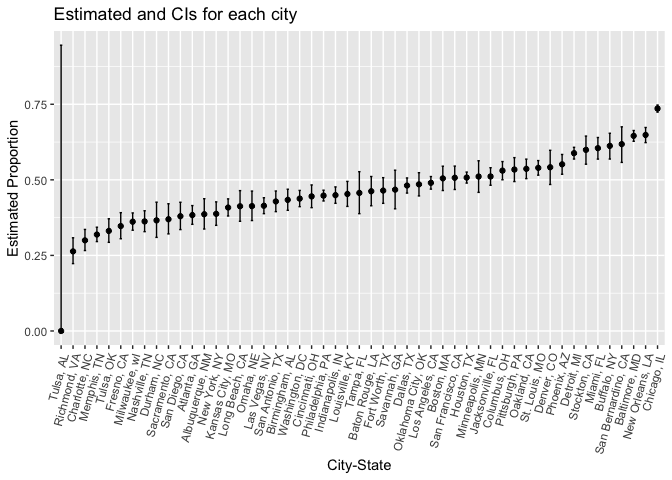
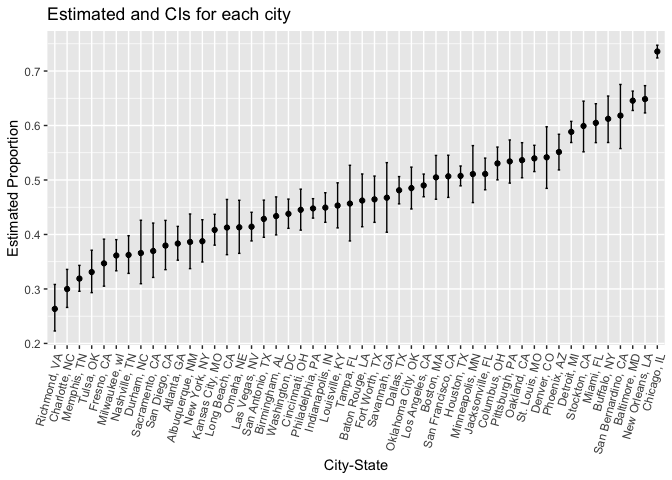
modify

diff --git a/hw5.md b/hw5.md
@@ -86,16 +86,11 @@ calculate_prop_test = function(city_data) {
 
 result = homicides |>
     mutate(city_state = paste(city, state, sep=", ")) |>
+    filter(city_state != "Tulsa, AL") |>
   group_by(city_state) |>
   summarise(prop_test_results = list(calculate_prop_test(disposition))) |>
   unnest(prop_test_results)
 ```
-
-    ## Warning: There was 1 warning in `summarise()`.
-    ## ℹ In argument: `prop_test_results = list(calculate_prop_test(disposition))`.
-    ## ℹ In group 49: `city_state = "Tulsa, AL"`.
-    ## Caused by warning in `prop.test()`:
-    ## ! Chi-squared approximation may be incorrect
 
 ``` r
 ggplot(result, aes(y = reorder(city_state, estimate), x = estimate, xmin = conf.low, xmax = conf.high)) +
@@ -361,10 +356,10 @@ ggplot(avg_estimate_values, aes(x = true_mu, y = avg_estimate, group = 1)) +
 
 ![](hw5_files/figure-gfm/unnamed-chunk-9-1.png)<!-- -->
 
-The red line is the average estimate versus the true average. Mean
-estimates are very close to the true mean. The blue line is the mean
-estimate of the rejected nulls versus the true mean. When the mean is 0,
-1, 2, 3, and 4, the sample means of the rejected nulls are not
-approximately equal to the true value of the mean because the power is
-not large enough. As the power increases or the effect size increases,
-the sample mean estimate will be very close to the mean.
+The line is the average estimate versus the true average. Mean estimates
+are very close to the true mean. The red point is the mean estimate of
+the rejected nulls versus the true mean. When the mean is 0, 1, 2, 3,
+and 4, the sample means of the rejected nulls are not approximately
+equal to the true value of the mean because the power is not large
+enough. As the power increases or the effect size increases, the sample
+mean estimate will be very close to the mean.
